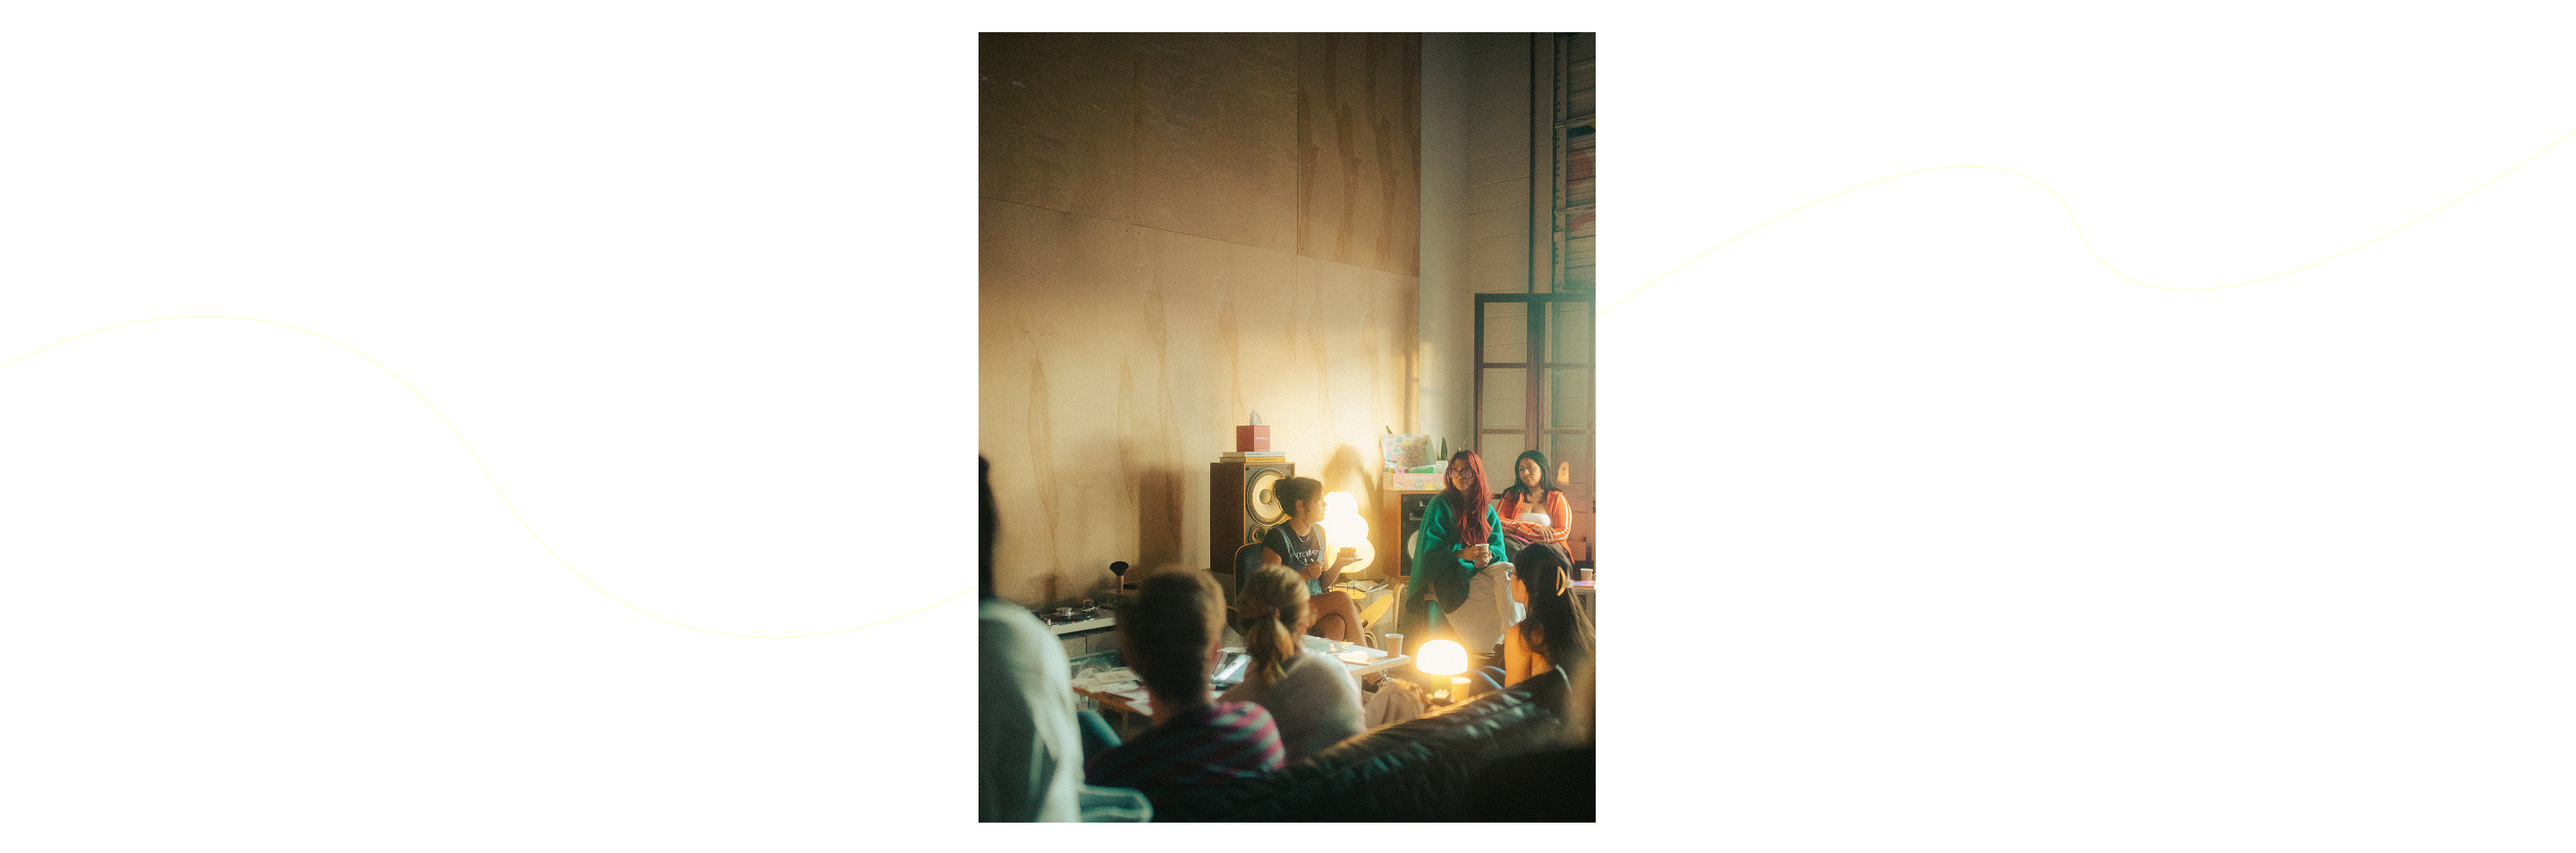
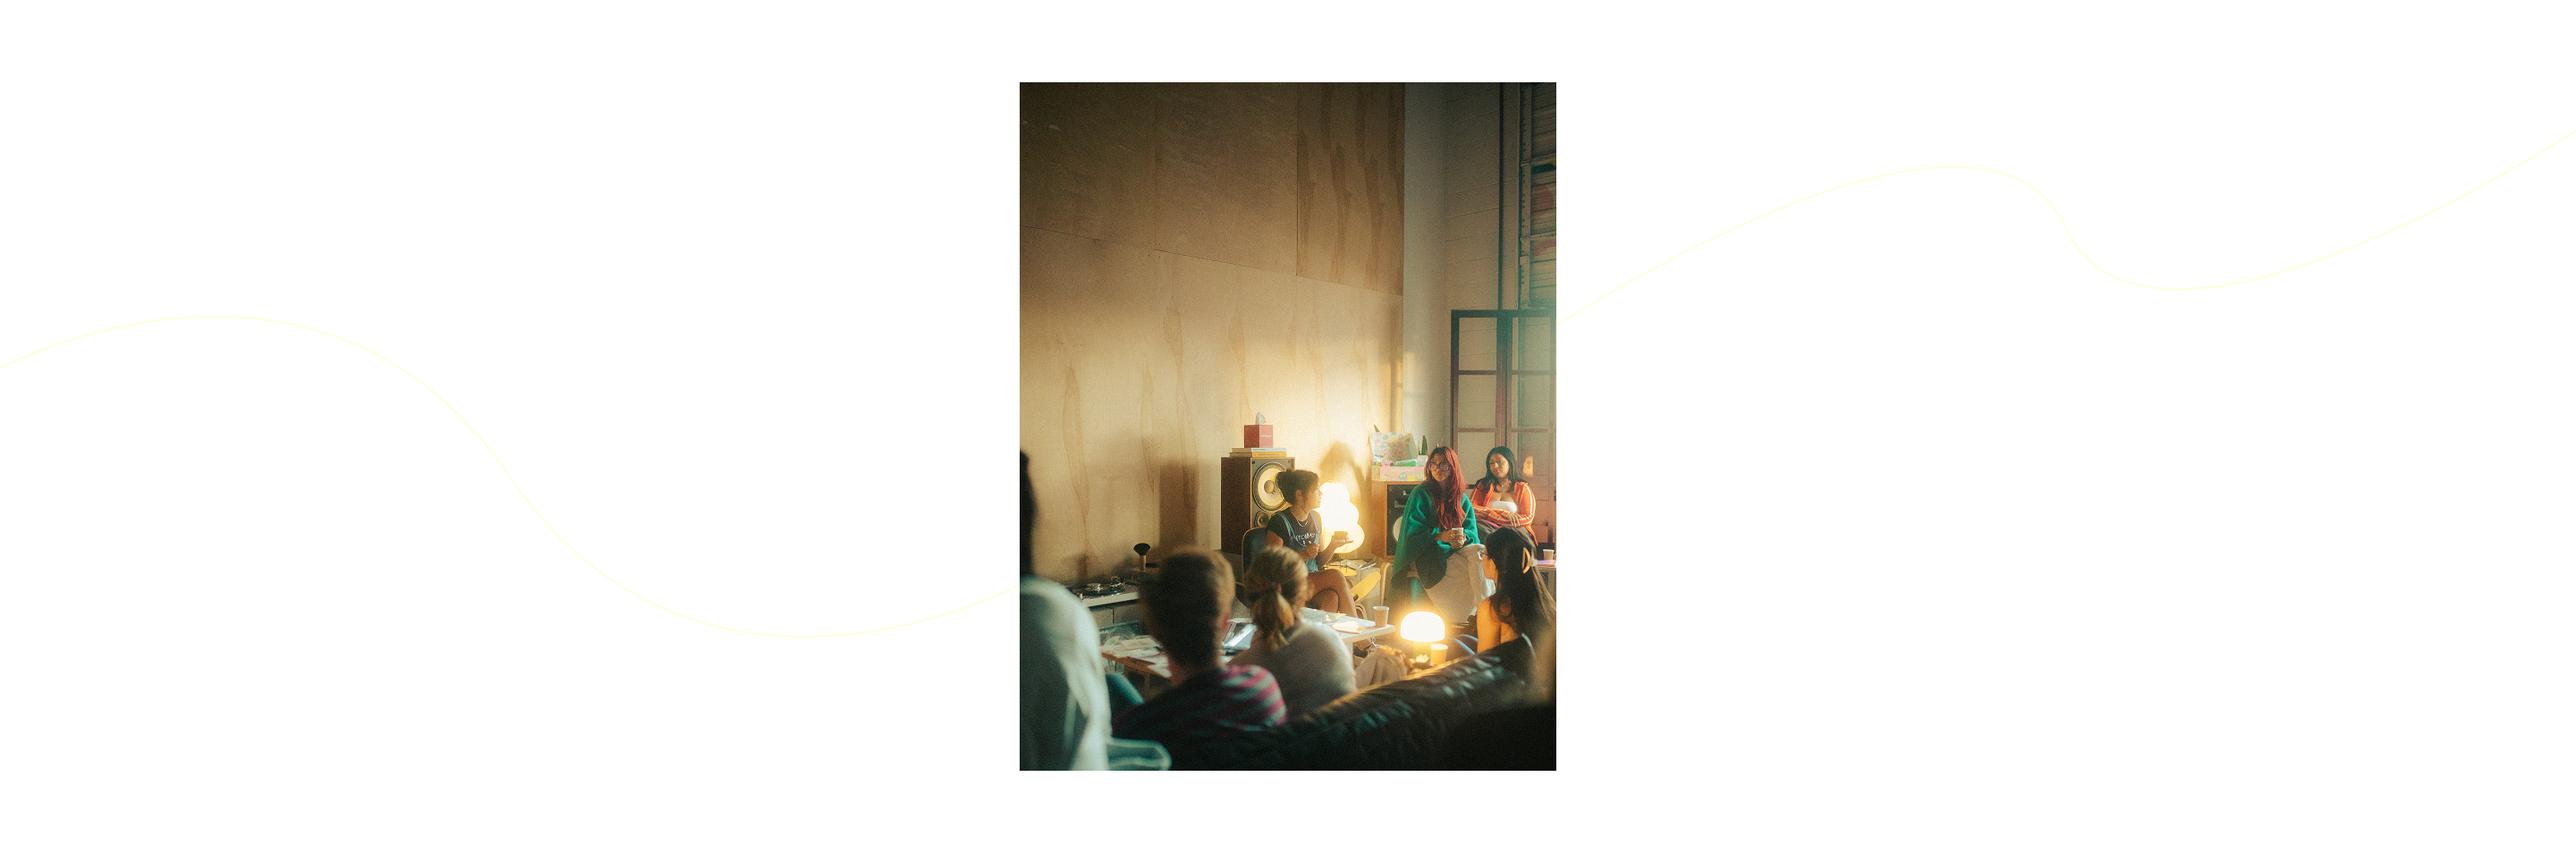
Started implementing navbar for mobile

Changed region(s): [[0.375, 0.0304, 0.625, 0.9727], [0.875, 0.304, 0.9062, 0.3344], [0.3125, 0.7296, 0.3438, 0.76]]

diff --git a/src/components/Homepage.tsx b/src/components/Homepage.tsx
@@ -1,25 +1,34 @@
-import {  type JSX } from 'react';
-import homepageBG from '../assets/homepageBG.png'
-import homepageHeroImg from '../assets/homepageHeroImg.png'
+import { type JSX } from 'react';
+import homepageBG from '../assets/homepageBG.png';
+import homepageHeroImg from '../assets/homepageHeroImg.png';
+import Navbar from './Navbar';
 
-function Homepage(): JSX.Element {
-    return (
-        /* BACKGROUND LAYER*/
-        <>
-            <div
-                className='absolute z-0 inset-0 bg-cover bg-center bg-fixed'
-                style={{ backgroundImage: `url(${homepageBG})` }}
-            >
-            </div>
-            
-            <div className='relative z-10 flex justify-center items-center min-h-screen overflow-hidden'>
-                <img
-                    src={homepageHeroImg}
-                    className="block max-w-[clamp(1500px,100vw,2500px)]"
-                />
-            </div>
-        </>
-    )
+export default function Homepage(): JSX.Element {
+  return (
+    <div className="relative min-h-screen overflow-hidden">
+      
+      {/* BACKGROUND */}
+      <div
+        className="absolute inset-0 bg-cover bg-center bg-fixed z-0"
+        style={{ backgroundImage: `url(${homepageBG})` }}
+      />
+
+      {/* FOREGROUND */}
+      <div className="relative z-10 flex flex-col min-h-screen">
+
+        {/* NAVBAR */}
+        <Navbar />
+
+        {/* HERO SECTION */}
+        <div className="flex flex-1 justify-center items-center px-4">
+          <img
+            src={homepageHeroImg}
+            className="block h-auto max-w-[clamp(1000px,100vw,250000px)]"
+            alt=""
+          />
+        </div>
+
+      </div>
+    </div>
+  );
 }
-
-export default Homepage;

diff --git a/src/components/Navbar.tsx b/src/components/Navbar.tsx
@@ -1,0 +1,34 @@
+import { useState, type JSX } from 'react';
+import withkatecoLogo from '../assets/withkatecoLogo.png'
+
+export default function Navbar(): JSX.Element {
+    const [open, setOpen] = useState(false);
+
+    return (
+        <nav className='relative z-20 w-full flex justify-between items-center'>
+            {/* LOGO */}
+            <img src={withkatecoLogo} className='max-w-[30vw]'></img>
+
+            {/* DESKTOP NAVBAR */}
+
+            {/* MOBILE NAVBAR */}
+            <button 
+                className='md:hidden flex flex-col gap-1.5 p-4'
+                onClick={() => setOpen(!open)}
+            >
+                <span className='w-6 h-0.5 bg-white transition'></span>
+                <span className='w-6 h-0.5 bg-white transition'></span>
+                <span className='w-6 h-0.5 bg-white transition'></span>
+            </button>
+
+            {open && (
+                <div className='absolute top-0 left-0 w-full bg-black/50 backdrop-blur-md min-h-[50vh] flex flex-col justify-center items-center gap-8'>
+                    <a className='text-lg text-white' onClick={() => setOpen(false)}>about</a>
+                    <a className='text-lg text-white' onClick={() => setOpen(false)}>calendar</a>
+                    <a className='text-lg text-white' onClick={() => setOpen(false)}>offerings</a>
+                    <a className='text-lg text-white' onClick={() => setOpen(false)}>connect</a>
+                </div>
+            )}
+        </nav>
+    )
+}
